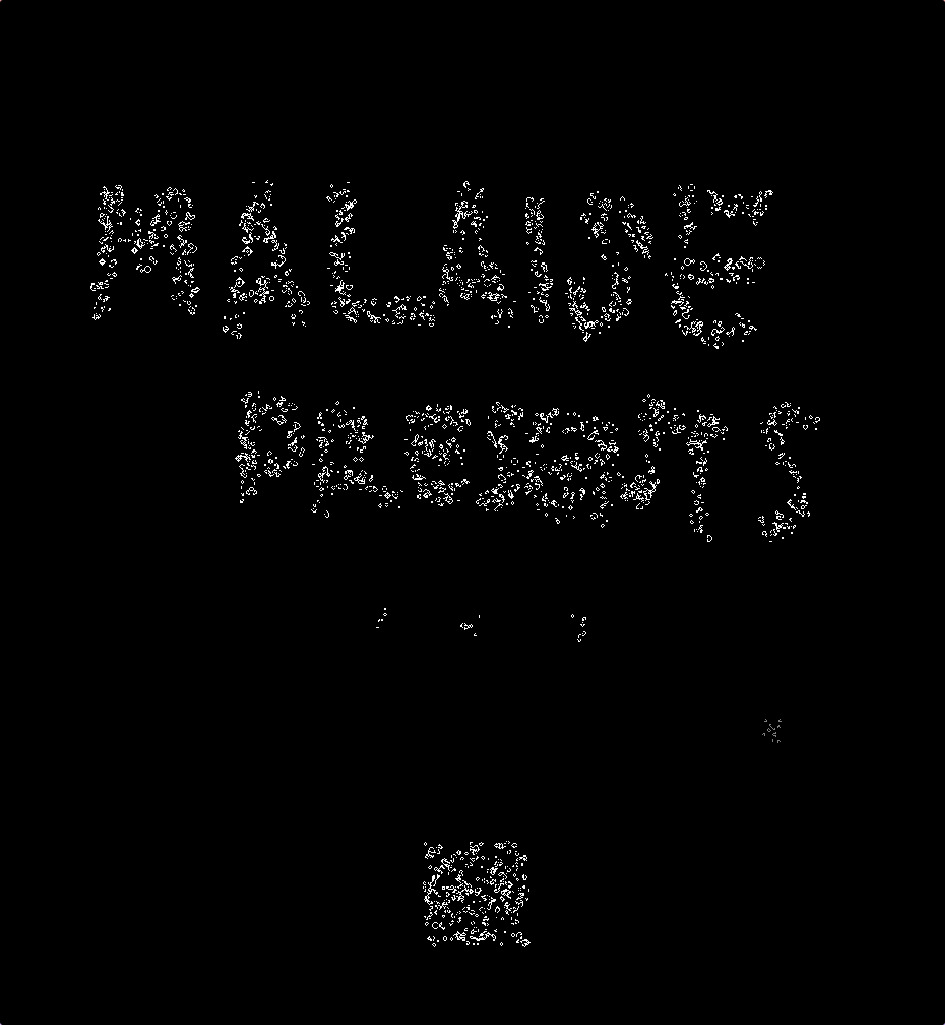
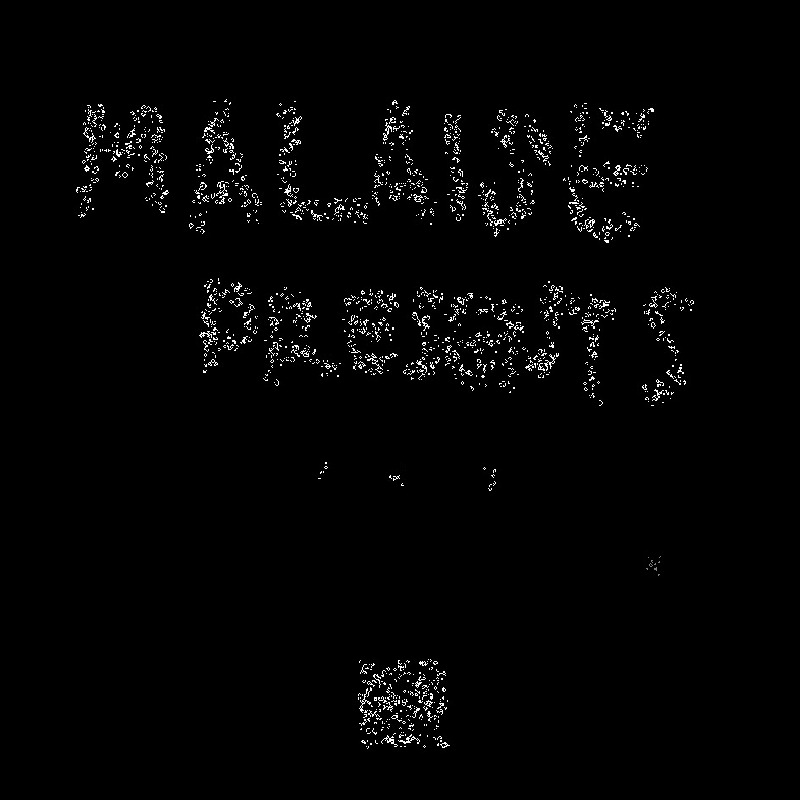
Fix README and resize bad image

diff --git a/README.md b/README.md
@@ -1,4 +1,4 @@
-# Conway's Game of Life (Malaise Edition)
+# Conway's Game of Life (Malaise Edition!)
 
 A simple, real-time, sparse-encoded Game of Life implementation written in C++, using SFML 2.6.2 for rendering!
 
